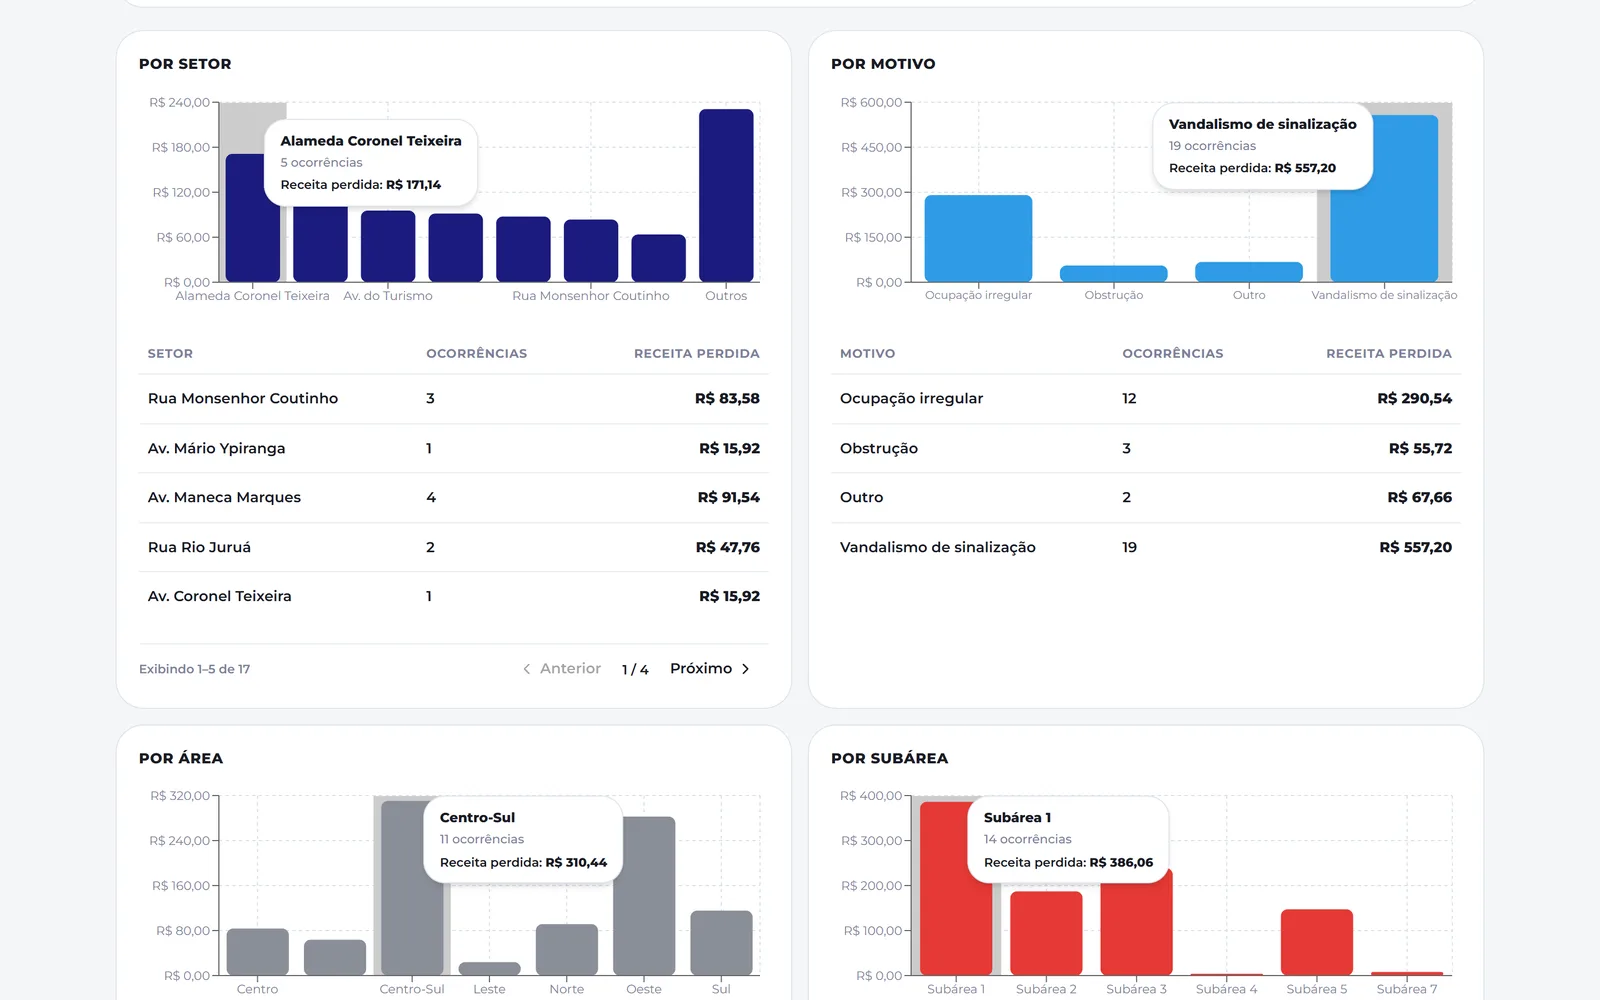
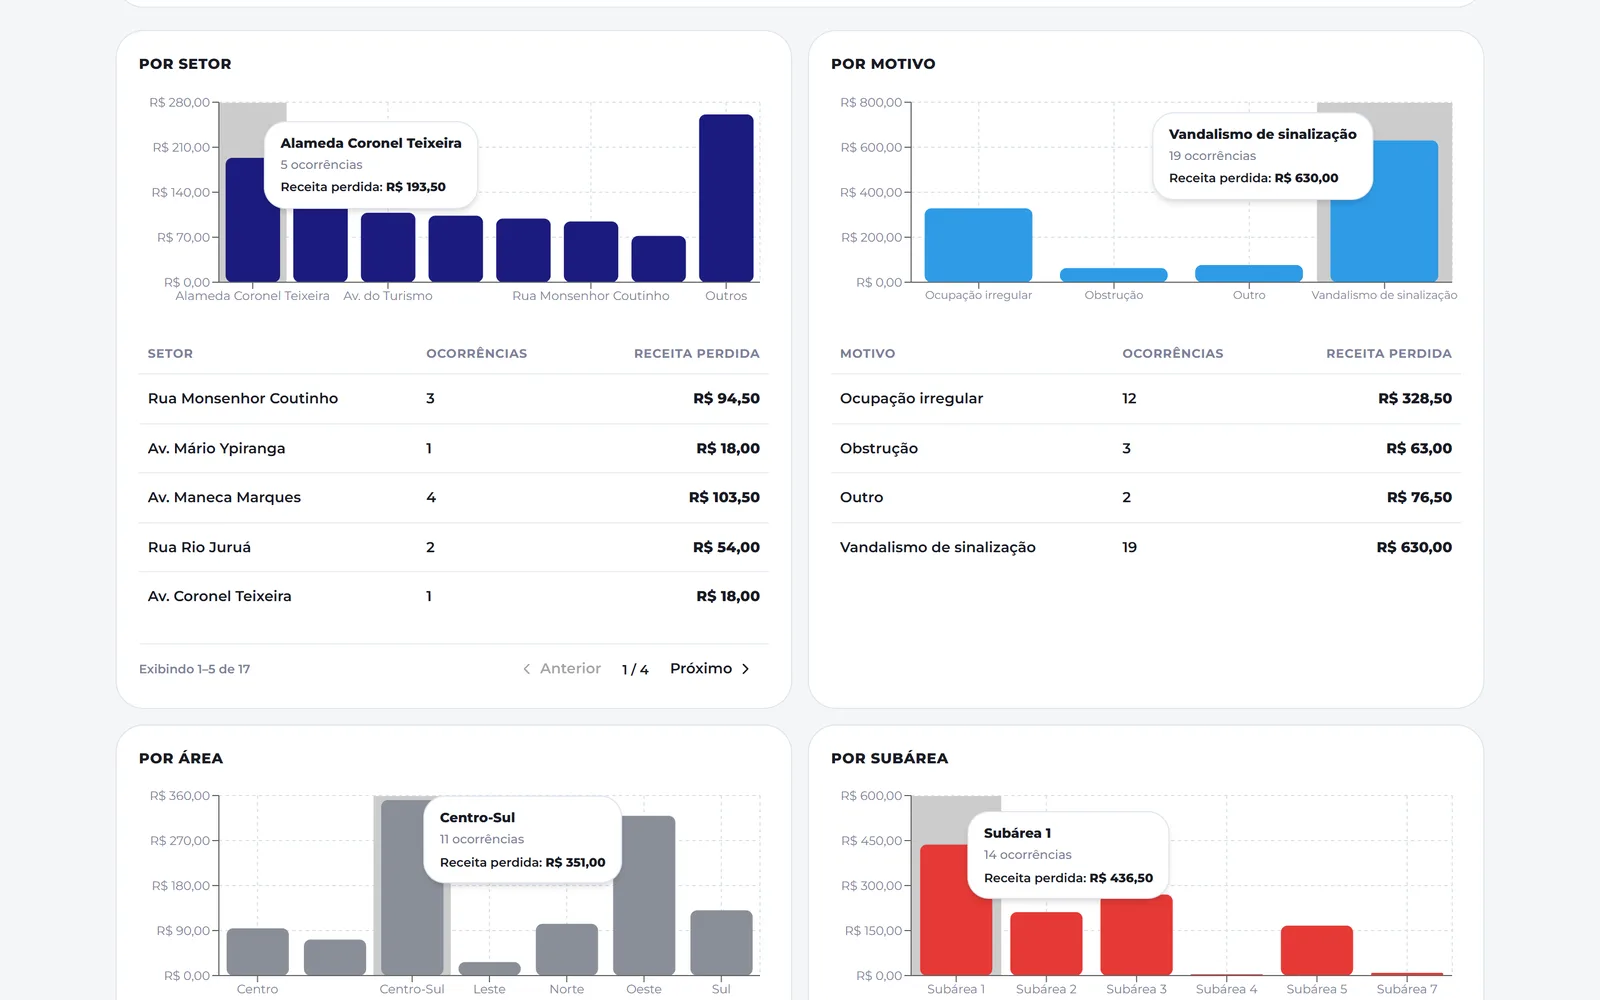
feat: exibe galeria do projeto também na home
- Galeria no card resumido da home
- Capturas do Zona Azul com tarifa e nomes fictícios e ocorrência preenchida

diff --git a/src/features/projects/components/project-gallery.test.tsx b/src/features/projects/components/project-gallery.test.tsx
@@ -49,7 +49,7 @@ describe("ProjectGallery and ProjectTimelineCard gallery integration", () => {
     cleanup();
   });
 
-  it("renders gallery buttons 1 to 6 in detail variant and hides gallery in summary variant", () => {
+  it("renders gallery buttons 1 to 6 in both detail and summary variants", () => {
     if (!projectWithGallery) {
       throw new Error("Expected at least one project");
     }
@@ -70,9 +70,11 @@ describe("ProjectGallery and ProjectTimelineCard gallery integration", () => {
       <ProjectTimelineCard project={projectWithGallery} variant="summary" />,
     );
 
-    expect(
-      screen.queryByRole("button", { name: /Ampliar imagem/i }),
-    ).not.toBeInTheDocument();
+    for (let index = 1; index <= 6; index += 1) {
+      expect(
+        screen.getByRole("button", { name: `Ampliar imagem ${index} de 6` }),
+      ).toBeInTheDocument();
+    }
   });
 
   it("opens dialog on clicked image with title and 3 / 6 counter, navigates, and closes on Fechar", () => {

diff --git a/src/features/projects/content/projects.ts b/src/features/projects/content/projects.ts
@@ -62,7 +62,7 @@ export const projects = parseContent(
         },
         {
           src: zonaAzulNovaOcorrencia,
-          alt: "Formulário de nova ocorrência com cálculo do total estimado em tempo real",
+          alt: "Formulário de nova ocorrência preenchido, com vagas selecionadas, fotos e total estimado em tempo real",
           width: 1600,
           height: 1000,
         },

diff --git a/src/routes/home.test.tsx b/src/routes/home.test.tsx
@@ -51,6 +51,12 @@ describe("Home route", () => {
       ).toBeGreaterThan(0);
     }
 
+    expect(
+      within(projectItems[0] as HTMLElement).getAllByRole("button", {
+        name: "Ampliar imagem 1 de 6",
+      }).length,
+    ).toBeGreaterThan(0);
+
     for (const project of projects) {
       for (const highlight of project.highlights) {
         expect(

diff --git a/src/features/projects/components/project-timeline-card.tsx b/src/features/projects/components/project-timeline-card.tsx
@@ -54,7 +54,7 @@ export function ProjectTimelineCard({
           ))}
         </ul>
       )}
-      {isDetail && project.gallery && (
+      {project.gallery && (
         <ProjectGallery
           projectTitle={project.title}
           images={project.gallery}
